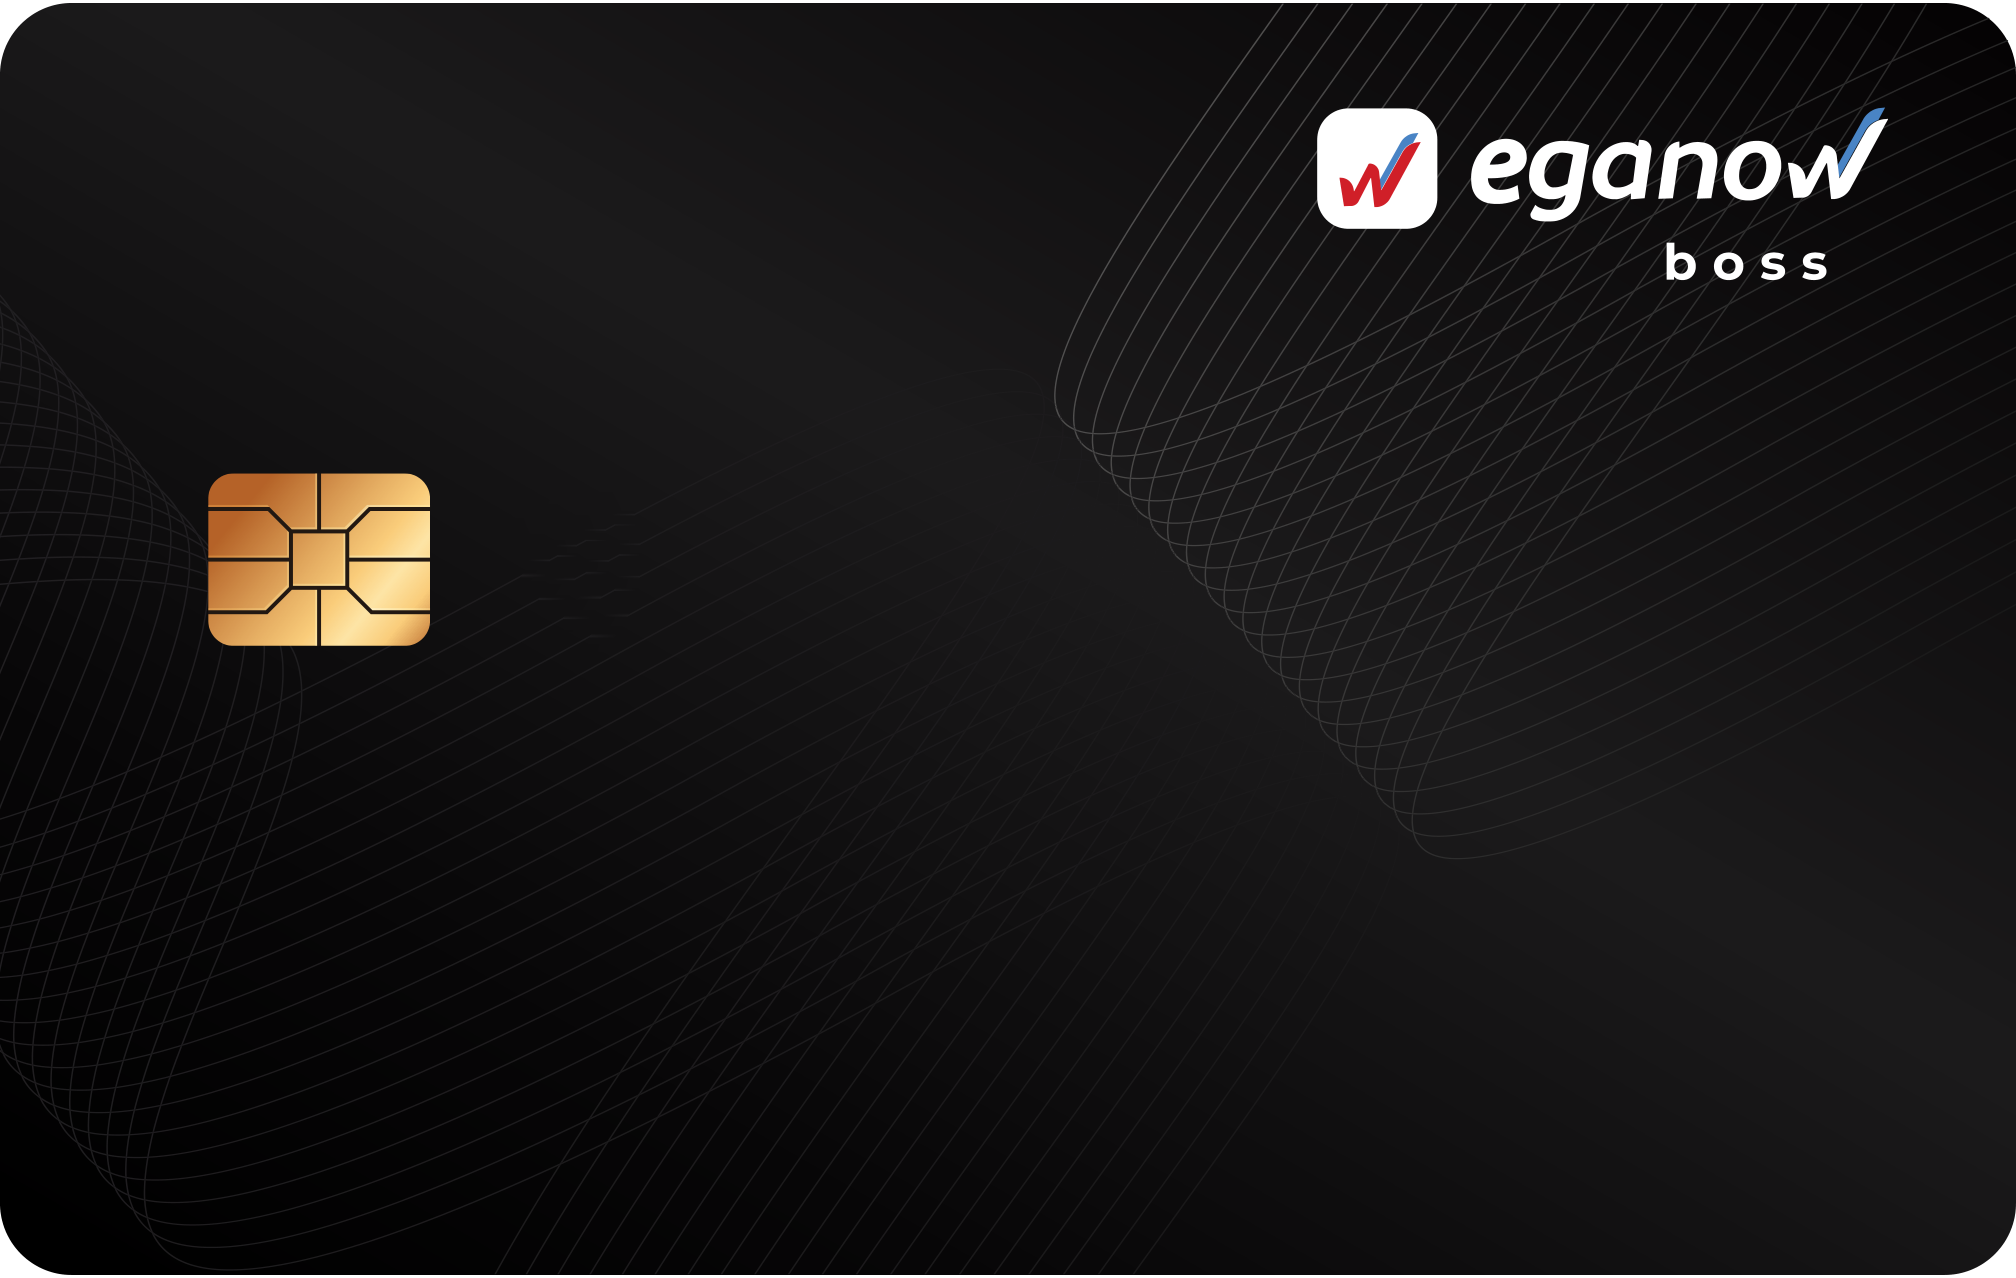
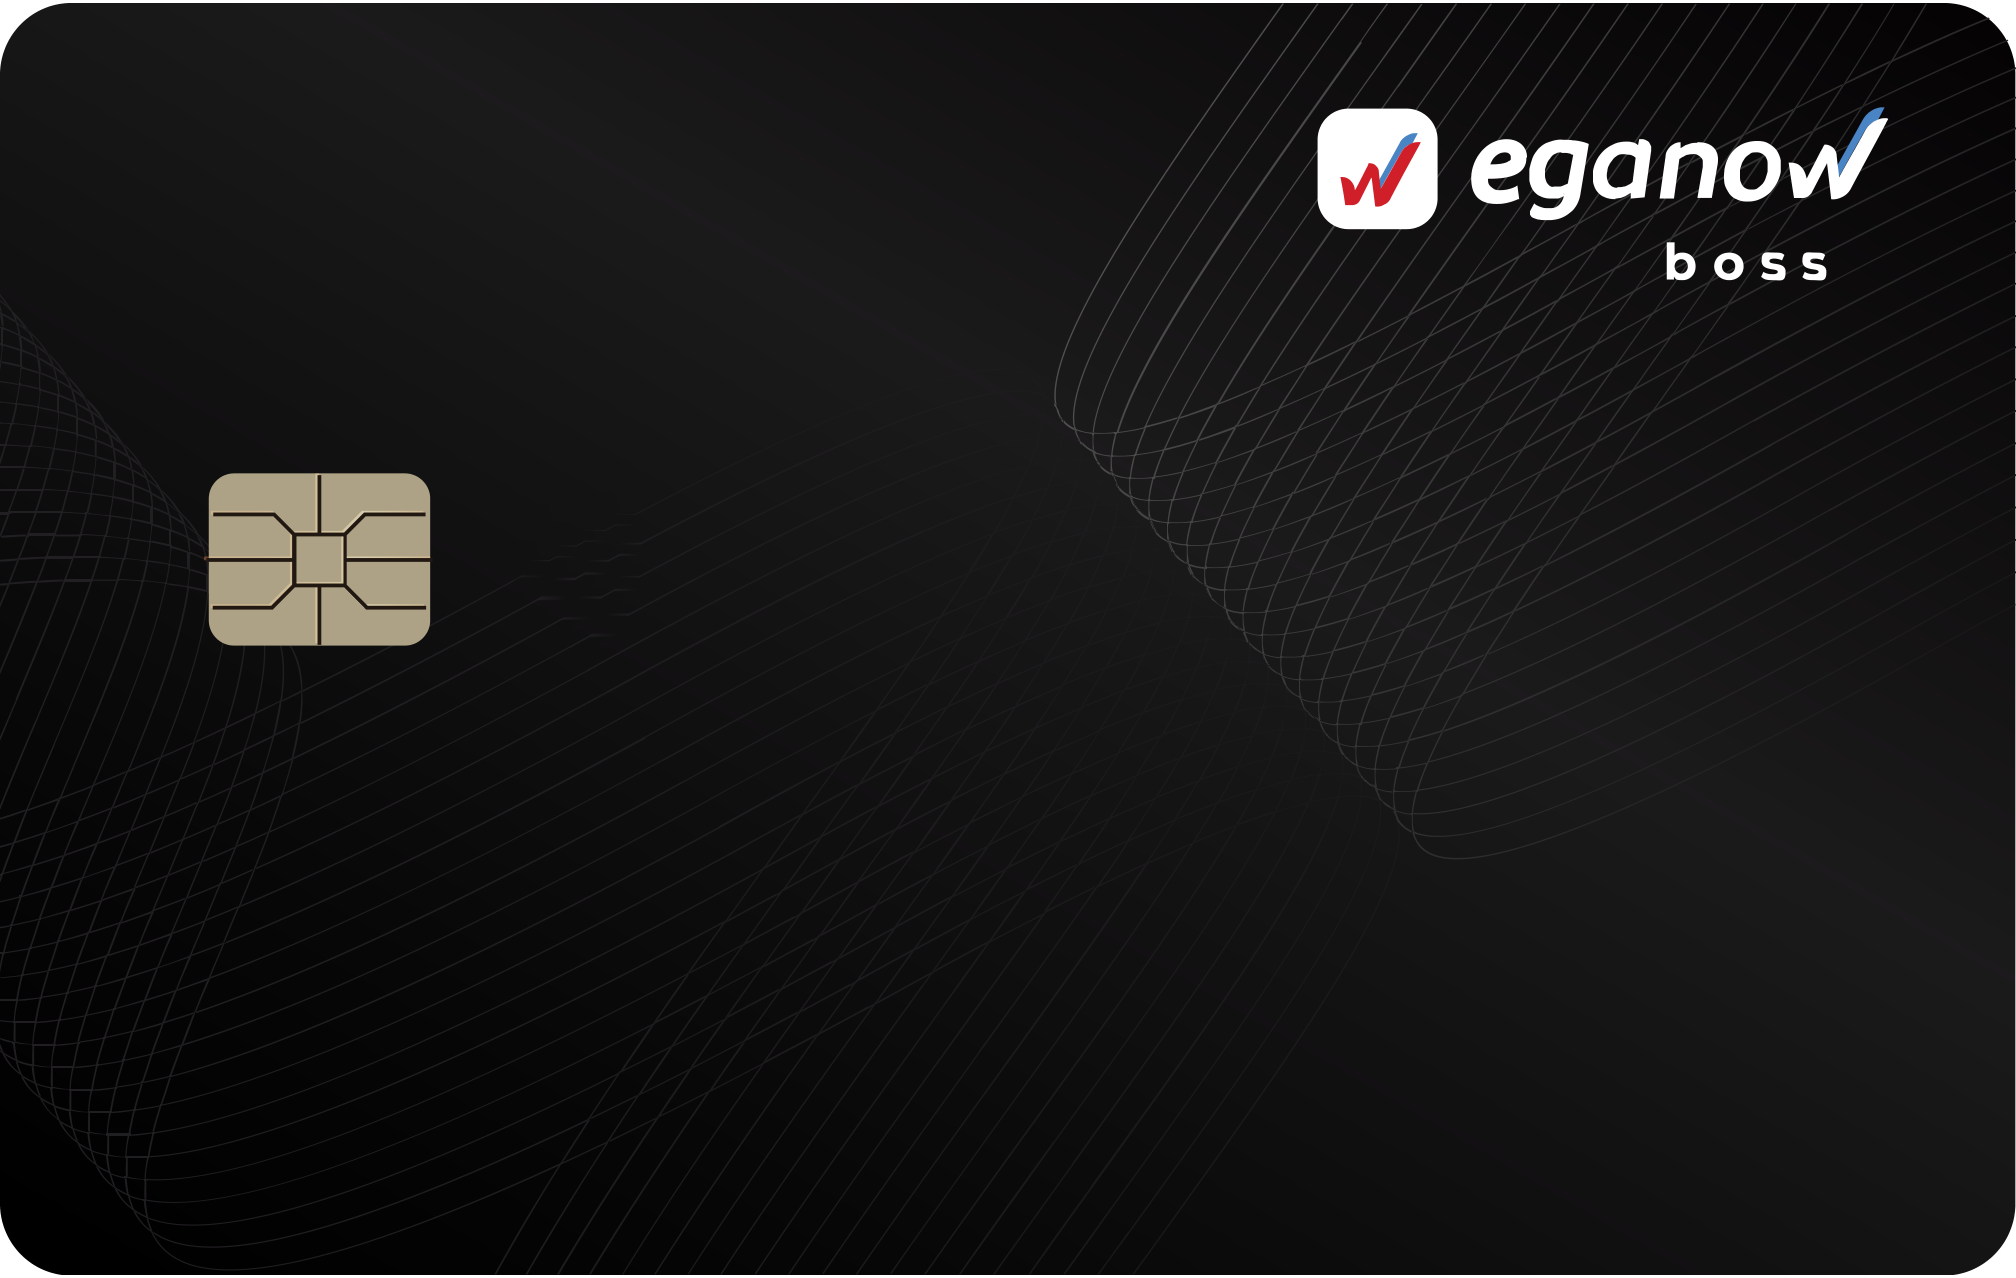
Refresh the card artwork, resize the loader, add a medium badge
Artwork: both PNGs replaced with the September design, which moves the chip
from gold to silver. Those originals ship with the contactless mark printed,
so strip_nfc.py inpainted it back out and the widget keeps drawing its own
animated one. The fitted geometry still matches the new art — verify_nfc
reproduces 99.9% (boss) and 98.0% (freedom) of the printed mark — so the
painter needed no change. fit_nfc.py and verify_nfc.py now point at where
those originals live.

Contactless mark: drawn at 85% of the fitted geometry, which reads better
against the chip. The arcs shrink towards an origin outside them, so scaling
alone dragged the mark leftwards; the centre moves to 0.25347w to compensate
and the smaller mark holds the printed one's optical position to within half
a pixel.

Back of the card: the signature panel no longer repeats the cardholder name.
It is left blank, the way an unsigned strip is — the name belongs on the
front, and repeating it only gave the same value a second place to leak from.

New: EganowCardMedium and a `medium` parameter, badging the front Virtual or
Physical at the top left, on the 9% margin the card number already uses. Null
by default, so a card that makes no such distinction looks exactly as it did.
It is not concealed by hideDetails — which medium a card is isn't a secret,
and a badge blinking out alongside the real values would only draw the eye.
Named `medium` rather than `form` so it is never confused with
EganowCardEntry.form.
[…]

Changed region(s): [[0.0938, 0.3662, 0.2188, 0.5188], [0.875, 0.1221, 0.9062, 0.1526], [0.75, 0.1526, 0.7812, 0.1831]]

diff --git a/lib/src/eganow_card.dart b/lib/src/eganow_card.dart
@@ -28,6 +28,19 @@ enum EganowCardEntry {
   form,
 }
 
+/// Whether the card exists as a piece of plastic or only in the app.
+///
+/// Named `medium` rather than `form` throughout, so it is never mistaken for
+/// [EganowCardEntry.form], which is about where fields are typed, not about
+/// what kind of card this is.
+enum EganowCardMedium {
+  physical,
+  virtual;
+
+  /// The badge caption, e.g. `Virtual`.
+  String get label => '${name[0].toUpperCase()}${name.substring(1)}';
+}
+
 /// What the security code is called on this card. It is the same three digits
 /// either way — issuers and networks simply differ on what they print, so the
 /// label follows the card being represented rather than the code itself.
@@ -100,7 +113,7 @@ class EganowCardMetrics {
 /// EganowCard(
 ///   tier: EganowCardTier.boss,
 ///   pan: '5399  8402  1174  4821',
-///   holder: 'Alex Tantuo',
+///   holder: 'Kwaku Ananse',
 ///   expiry: '09/28',
 ///   cvc: '418',
 /// )
@@ -125,6 +138,7 @@ class EganowCard extends StatefulWidget {
     this.controllers,
     this.onChanged,
     this.legalText = defaultLegalText,
+    this.medium,
     this.securityCodeLabel = EganowSecurityCodeLabel.cvv,
     this.hideDetails = false,
     this.isLoading = false,
@@ -159,6 +173,15 @@ class EganowCard extends StatefulWidget {
 
   /// Fired whenever an editable field changes.
   final void Function(EganowCardField field, String value)? onChanged;
+
+  /// Badges the front of the card `Virtual` or `Physical`, top left.
+  ///
+  /// Left null — the default — no badge is drawn at all, so a card that has
+  /// no need to make the distinction looks exactly as it did before. It is
+  /// deliberately not concealed by [hideDetails]: which medium a card is
+  /// isn't a secret, and a badge blinking out alongside the real values would
+  /// only draw the eye.
+  final EganowCardMedium? medium;
 
   /// Whether the security code is captioned CVV or CVC — on the back of the
   /// card and, in form mode, on the field below it. Only the caption changes;
@@ -628,7 +651,7 @@ class _EganowCardState extends State<EganowCard>
 
   static String _formHint(EganowCardField field) => switch (field) {
     EganowCardField.pan => '0000  0000  0000  0000',
-    EganowCardField.holder => 'e.g. Alex Tantuo',
+    EganowCardField.holder => 'e.g. Kwaku Ananse',
     EganowCardField.expiry => 'MM/YY',
     EganowCardField.cvc => _concealedCvc,
   };
@@ -676,6 +699,36 @@ class _EganowCardState extends State<EganowCard>
             package: EganowCard.assetPackage,
             fit: BoxFit.cover,
           ),
+
+          // Medium badge, sharing the 9% margin the card number is set on and
+          // sitting clear above the chip (which starts at 37% of the height).
+          if (widget.medium != null)
+            Positioned(
+              left: w * 0.09,
+              top: h * 0.085,
+              child: DecoratedBox(
+                decoration: BoxDecoration(
+                  color: Colors.white.withValues(alpha: 0.22),
+                  borderRadius: BorderRadius.circular(m.cqw(1.6)),
+                ),
+                child: Padding(
+                  padding: EdgeInsets.symmetric(
+                    horizontal: m.cqw(2.2),
+                    vertical: m.cqw(1.2),
+                  ),
+                  child: Text(
+                    widget.medium!.label,
+                    style: EganowFonts.urbanist(
+                      color: Colors.white,
+                      fontSize: m.cqw(2.35),
+                      fontWeight: FontWeight.w600,
+                      letterSpacing: m.cqw(0.05),
+                      shadows: shadows,
+                    ),
+                  ),
+                ),
+              ),
+            ),
 
           // The mark is no longer part of the artwork — it is drawn here, and
           // only on a card that can be edited. It stays off for the whole of a
@@ -914,7 +967,6 @@ class _EganowCardState extends State<EganowCard>
   Widget _buildBack(EganowCardMetrics m) {
     final w = m.width;
     final h = m.height;
-    final holder = _valueOf(EganowCardField.holder).trim();
 
     return DecoratedBox(
       decoration: BoxDecoration(
@@ -965,7 +1017,9 @@ class _EganowCardState extends State<EganowCard>
               ),
             ),
 
-            // Signature panel.
+            // Signature panel. Left blank, the way an unsigned strip is — the
+            // holder's name belongs on the front, and repeating it here only
+            // gave the same value a second place to leak from.
             Positioned(
               left: w * 0.06,
               top: h * 0.35,
@@ -975,38 +1029,6 @@ class _EganowCardState extends State<EganowCard>
                 decoration: BoxDecoration(
                   borderRadius: BorderRadius.circular(m.cqw(0.5)),
                   gradient: _signatureWeave(m),
-                ),
-                child: Padding(
-                  padding: EdgeInsets.symmetric(horizontal: m.cqw(2.5)),
-                  child: Align(
-                    alignment: Alignment.centerLeft,
-                    child: _revealWrap(
-                      onDarkGround: false,
-                      Opacity(
-                        opacity:
-                            (holder.isEmpty &&
-                                !_isHidden(EganowCardField.holder))
-                            ? 0.35
-                            : 1,
-                        child: Text(
-                          _isHidden(EganowCardField.holder)
-                              ? _concealedName
-                              : (holder.isEmpty
-                                    ? 'Cardholder signature'
-                                    : holder),
-                          maxLines: 1,
-                          softWrap: false,
-                          overflow: TextOverflow.ellipsis,
-                          style: EganowFonts.urbanist(
-                            color: EganowColors.signatureInk,
-                            fontSize: m.cqw(4),
-                            fontWeight: FontWeight.w600,
-                            fontStyle: FontStyle.italic,
-                          ),
-                        ),
-                      ),
-                    ),
-                  ),
                 ),
               ),
             ),
@@ -1411,12 +1433,18 @@ class ContactlessMarkPainter extends CustomPainter {
   /// 0…1 and looping, or null to draw the mark at rest.
   final double? progress;
 
-  /// Fitted off the source artwork: centre as a fraction of card width and
-  /// height, radii and stroke as fractions of width.
-  static const double _centreX = 0.24777;
+  /// Fitted off the source artwork — centre as a fraction of card width and
+  /// height, radii and stroke as fractions of width — then drawn at 85% of
+  /// that fit, which reads better against the chip than the printed mark did.
+  ///
+  /// Scaling alone would have pulled the mark leftwards, since the arcs shrink
+  /// towards an origin that sits outside them; the centre is nudged right to
+  /// compensate, so the smaller mark keeps the printed one's optical position
+  /// rather than drifting towards the chip.
+  static const double _centreX = 0.25347;
   static const double _centreY = 0.43545;
-  static const List<double> _radii = [0.01982, 0.03351, 0.04883, 0.06462];
-  static const double _stroke = 0.00729;
+  static const List<double> _radii = [0.01685, 0.02848, 0.04151, 0.05493];
+  static const double _stroke = 0.0062;
 
   /// The arcs open rightwards, each spanning a little less than the one
   /// inside it — measured, not assumed.

diff --git a/test/widget_test.dart b/test/widget_test.dart
@@ -616,6 +616,94 @@ void main() {
     expect(find.text(mask), findsNothing);
   });
 
+  testWidgets('the back carries no cardholder name', (tester) async {
+    await pumpCard(
+      tester,
+      const EganowCard(
+        pan: EganowCard.samplePan,
+        holder: 'Alex Tantuo',
+        expiry: '09/28',
+        cvc: '418',
+        flipped: true,
+      ),
+    );
+
+    // The signature strip is blank: neither the name, nor the old placeholder,
+    // nor the concealment mask that used to stand in for it.
+    expect(find.text('Alex Tantuo'), findsNothing);
+    expect(find.text('ALEX TANTUO'), findsNothing);
+    expect(find.text('Cardholder signature'), findsNothing);
+    expect(find.text('••••••••••••'), findsNothing);
+  });
+
+  testWidgets('and still carries none when the details are concealed', (
+    tester,
+  ) async {
+    await pumpCard(
+      tester,
+      const EganowCard(
+        pan: EganowCard.samplePan,
+        holder: 'Alex Tantuo',
+        cvc: '418',
+        flipped: true,
+        hideDetails: true,
+      ),
+    );
+
+    expect(find.text('Alex Tantuo'), findsNothing);
+    expect(find.text('ALEX TANTUO'), findsNothing);
+    expect(find.text('••••••••••••'), findsNothing);
+  });
+
+  group('the medium badge', () {
+    testWidgets('is absent unless a medium is given', (tester) async {
+      await pumpCard(tester, const EganowCard(pan: EganowCard.samplePan));
+      expect(find.text('Virtual'), findsNothing);
+      expect(find.text('Physical'), findsNothing);
+    });
+
+    for (final (medium, caption) in [
+      (EganowCardMedium.virtual, 'Virtual'),
+      (EganowCardMedium.physical, 'Physical'),
+    ]) {
+      testWidgets('captions the front $caption', (tester) async {
+        await pumpCard(
+          tester,
+          EganowCard(pan: EganowCard.samplePan, medium: medium),
+        );
+        expect(find.text(caption), findsOneWidget);
+      });
+    }
+
+    testWidgets('stays put while the values are concealed', (tester) async {
+      // The medium isn't a secret, so hideDetails must not take it with it.
+      await pumpCard(
+        tester,
+        const EganowCard(
+          pan: EganowCard.samplePan,
+          holder: 'Kwaku Ananse',
+          medium: EganowCardMedium.virtual,
+          hideDetails: true,
+        ),
+      );
+      expect(find.text('Virtual'), findsOneWidget);
+      expect(find.text('••••••••••••'), findsOneWidget);
+    });
+
+    testWidgets('belongs to the front, not the back', (tester) async {
+      await pumpCard(
+        tester,
+        const EganowCard(
+          pan: EganowCard.samplePan,
+          cvc: '418',
+          medium: EganowCardMedium.virtual,
+          flipped: true,
+        ),
+      );
+      expect(find.text('Virtual'), findsNothing);
+    });
+  });
+
   group('the security code caption', () {
     testWidgets('is CVV by default, on the back and in the form', (
       tester,

diff --git a/lib/eganow_card.dart b/lib/eganow_card.dart
@@ -7,6 +7,7 @@ export 'src/eganow_card.dart'
         EganowCard,
         EganowCardEntry,
         EganowCardField,
+        EganowCardMedium,
         EganowCardMetrics,
         EganowCardTier,
         EganowCardTierArt,

diff --git a/tool/render_check.py b/tool/render_check.py
@@ -3,10 +3,11 @@ import numpy as np
 from png_tool import read_png, write_png
 
 W, H = 2016, 1278
-CX, CY = 0.24777 * W, 0.43545 * H
-RADII = [r * W for r in (0.01982, 0.03351, 0.04883, 0.06462)]
+# Mirrors ContactlessMarkPainter: the fit, scaled to 85% and re-centred.
+CX, CY = 0.25347 * W, 0.43545 * H
+RADII = [r * W for r in (0.01685, 0.02848, 0.04151, 0.05493)]
 SWEEPS = [62.5, 49.9, 46.2, 43.8]
-STROKE = 0.00729 * W
+STROKE = 0.0062 * W
 FALLOFF, DIM = 1.35, 0.2
 
 

diff --git a/tool/verify_nfc.py b/tool/verify_nfc.py
@@ -8,7 +8,7 @@ RADII = [r * W for r in (0.01982, 0.03351, 0.04883, 0.06462)]
 SWEEPS = [62.5, 49.9, 46.2, 43.8]
 STROKE = 0.00729 * W
 
-SRC = '/Users/naj/Desktop/eganow/mockups/assets'
+SRC = '/Users/naj/Desktop/eganow/Cards/assets/images'
 BOX = (490, 445, 665, 660)
 
 for name in ('eganow_boss_card', 'eganow_freedom_card'):

diff --git a/tool/fit_nfc.py b/tool/fit_nfc.py
@@ -4,7 +4,7 @@ import numpy as np
 from png_tool import read_png
 
 W, H = 2016, 1278
-SRC = '/Users/naj/Desktop/eganow/mockups/assets'
+SRC = '/Users/naj/Desktop/eganow/Cards/assets/images'
 BOX = (490, 445, 665, 660)
 
 img = read_png(f'{SRC}/eganow_boss_card.png')

diff --git a/tool/README.md b/tool/README.md
@@ -6,7 +6,11 @@ animate it instead. They are one-off; the stripped PNGs in
 `assets/images/` are the committed result.
 
 Originals (with the mark still printed) are **not** in this repo — they came
-from the design export.
+from the design export. `SRC` in `fit_nfc.py` and `verify_nfc.py` points at the
+copy they were last run against: `~/Desktop/eganow/Cards/assets/images`, the
+September revision that moved the chip from gold to silver. Re-point it if the
+originals move, and re-run `fit_nfc.py` after any artwork change — the geometry
+below is only valid for artwork whose mark sits where that fit found it.
 
 | script | purpose |
 | --- | --- |
@@ -20,9 +24,16 @@ Run them from the project root with `PYTHONPATH=tool python3 tool/<script>.py`
 (needs numpy). `fit_nfc.py` and `verify_nfc.py` read the originals from a path
 set at the top of each file.
 
-The geometry they produced is baked into `_ContactlessMarkPainter`:
+The geometry they produced:
 
 - centre `(0.24777w, 0.43545h)`
 - radii `[0.01982, 0.03351, 0.04883, 0.06462] × w`
 - half-sweeps `[62.5°, 49.9°, 46.2°, 43.8°]`
 - stroke `0.00729w`
+
+`ContactlessMarkPainter` draws that fit at **85%**, which sits better against
+the chip than the printed mark did, with the centre moved to `0.25347w` so the
+smaller mark holds the printed one's optical position instead of drifting left
+towards the chip. `verify_nfc.py` compares against the *printed* mark, so it
+will no longer report a high match — that is expected, not a regression. Re-run
+`fit_nfc.py` after any artwork change and re-derive the scaled values from it.

diff --git a/README.md b/README.md
@@ -28,6 +28,7 @@ EganowCard(
 | `isLoading` | You own this. While true the values stay concealed and shimmering, taps are ignored, and the contactless mark runs its chase. |
 | `animateContactless` / `contactlessCycle` | Whether the mark animates while loading, and how long one sweep takes. |
 | `legalText` | The small print on the back. Empty string leaves it off. |
+| `medium` | Badges the front `Virtual` or `Physical`, top left. Null (the default) draws no badge. Not concealed by `hideDetails` — which medium a card is isn't a secret. |
 | `securityCodeLabel` | Captions the security code `CVV` (the default) or `CVC`, on the back and on the form field. Only the caption — the slot stays `EganowCardField.cvc`. |
 | `flipped` | Leave null to let the card manage its own flip; pass a value to drive it. |
 | `width` | Fills its parent when null. |
@@ -67,8 +68,9 @@ setState(() => loading = false);
 
 It used to be baked into the artwork, which made it impossible to animate. It
 has been inpainted out of both PNGs and is drawn by the widget instead, at
-geometry fitted to the original so it lands exactly where it was printed. See
-[`tool/README.md`](tool/README.md).
+geometry fitted to the original — then drawn at 85% of that fit, which sits
+better against the chip, re-centred so the smaller mark holds the printed one's
+optical position. See [`tool/README.md`](tool/README.md).
 
 Solid at rest; while loading, a highlight travels outward through the arcs.
 
